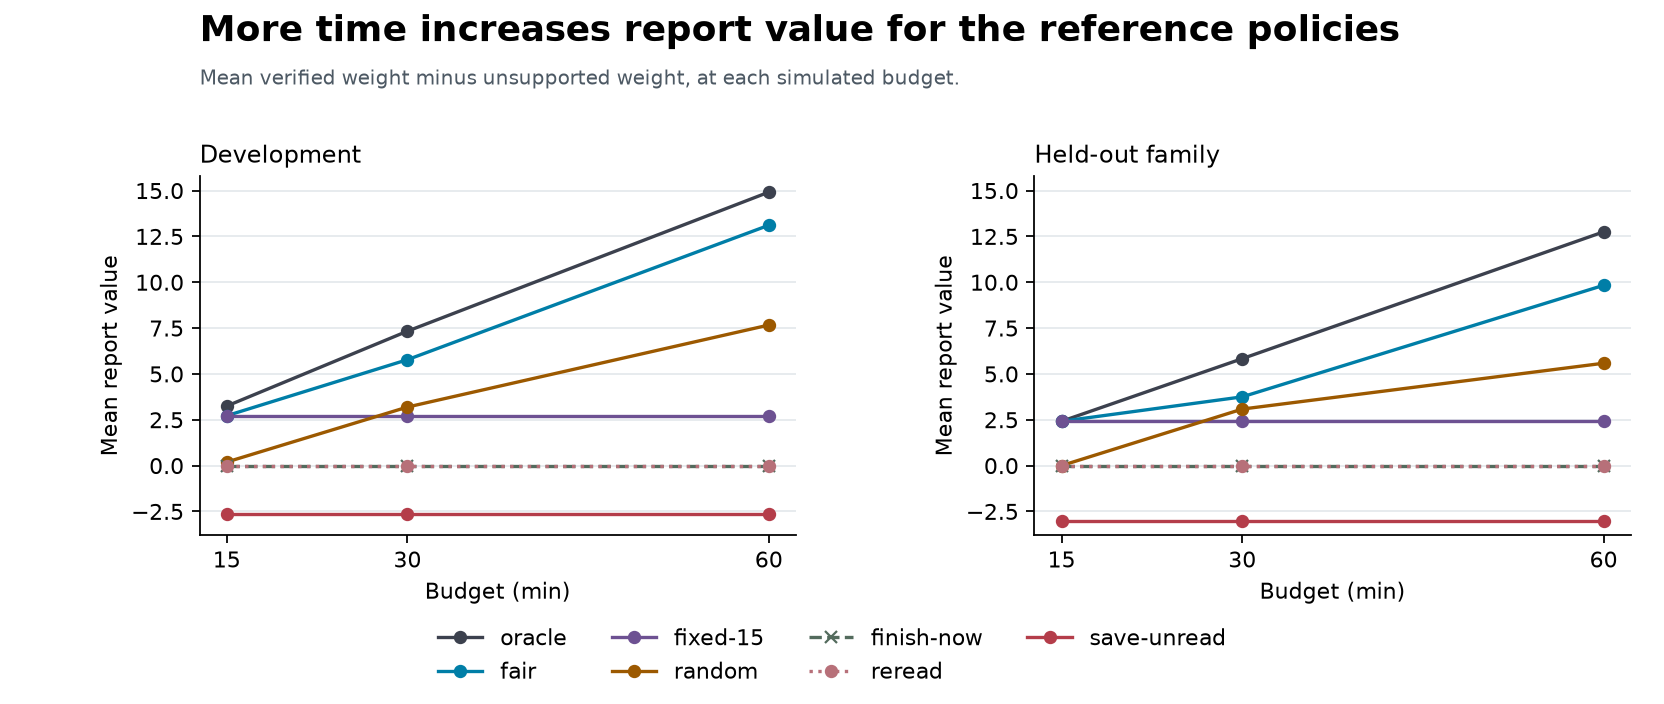
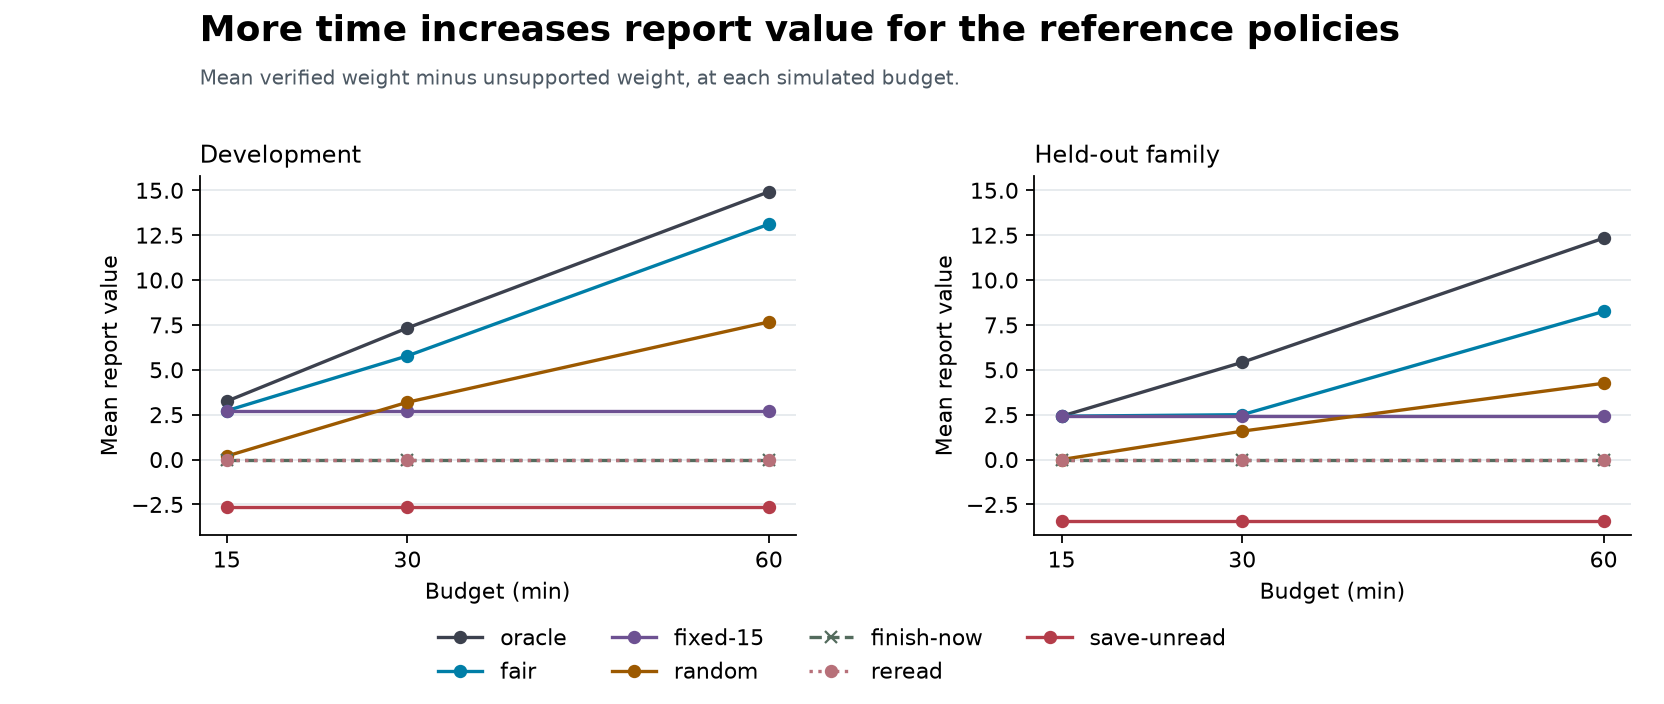
Report rebuilt held-out results and oracle-relative quality
Amp-Thread-ID: https://ampcode.com/threads/T-01a21279-4684-754f-88f1-cffe3ee9b7fb

diff --git a/README.md b/README.md
@@ -1,8 +1,8 @@
 # Time Gym v2
 
-**When an AI agent gets more time, does it deliver a better report? Can it estimate how long a fixed task will take?** Time Gym is a tool-use benchmark and a reinforcement learning environment for a Hack Club hackathon application.
+**When an AI agent gets more time, does it deliver a better report? Can it estimate how long its own work will take?** Time Gym is a tool-use benchmark and a reinforcement learning environment for an RL hackathon application.
 
-**Offline result:** On the held-out family, the fair reference scored **1.00** for budget efficiency. Its mean report value rose from **2.42 to 9.83** as the budget went from 15 to 60 minutes. The fixed-15 control scored **0.00** and the informed oracle scored **1.39**. These are results for scripts. No model was tested live or trained.
+**Offline result:** On the held-out family, the fair reference scored **1.00** for budget efficiency and reached **67%** of the oracle’s 60-minute value. The random plan scored **0.73** and **34%**; fixed-15 scored **0.00** and **20%**. These are results for scripts. No model was tested live or trained.
 
 ## Run the benchmark
 
@@ -15,37 +15,37 @@ uv run --locked python -m time_gym.report_baseline --split held-out > held-out.j
 uv run --locked --extra figures python -m time_gym.analysis dev.jsonl held-out.jsonl --output figures
 ```
 
-Use the default split to develop policies and prompts. Reserve `--split held-out` for a final check. The development split has 36 cases from three families (seeds 0–11). The held-out split has 12 cases from a fourth family (seeds 100–111). The benchmark and policies were committed before the held-out run. The JSONL files record tool calls, draft scores, final drafts, and outcome types.
+Use the default split to develop policies and prompts. Reserve `--split held-out` for a final check. The development split has 36 cases from three families (seeds 0–11). The held-out split has 12 cases from a fourth family (seeds 100–111). We rebuilt that family after the first scripted run because both links led to the same record. We froze the revised benchmark before the second run. No model was tuned on either held-out set. The JSONL files record tool calls, draft scores, final drafts, and outcome types.
 
 ## Two tasks, one simulated clock
 
 - **Fixed time.** Given 15, 30, or 60 minutes, deliver the highest-value verified report. Each case has 12–20 fictional topics with visible weights from 1 to 5. Even with perfect information, a full report took at least 212 minutes in the offline matrix. A read costs a hidden number of minutes within the catalog range. A failed read still costs time. The latest saved draft counts. A save costs one minute. A read that exceeds the budget gives no evidence.
-- **Fixed scope.** Give an 80% ETA interval before reading. Then verify the three listed topics with no simulated deadline. The target is the time a fixed procedure would use on that case: read stages in order, try the accessible record with the lowest upper cost first, and save once. The target includes failed attempts in that procedure. The agent cannot change it by delaying a save or choosing other reads. This tests a forecast for a stated procedure, not for the agent's own delivery time.
+- **Fixed scope.** Give an 80% ETA interval for your own work before reading. Then verify the three listed topics with no simulated deadline. The first verified save of all three topics stops the clock. An incomplete report has no observed completion time and earns zero reward.
 
-A finding needs one current record from each stage, read before the save. Some records disagree. The last stage gives the deciding value. Some records require a link from an earlier read. The held-out family adds a choice of links and a final confirmation after the chosen link. A failed or archived record cannot support a finding. Equivalent dates such as `18 May` and `May 18` earn the same credit; a separate counter records nonstandard format.
+A finding needs one current record from each stage, read before the save. Some records disagree. The last stage gives the deciding value. Cite the record that opens each gated record. In the held-out family, the two starting records lead to different records. One leads to an archived record, so the agent must go back if it takes that path. A failed or archived record cannot support a finding. Equivalent dates such as `18 May` and `May 18` earn the same credit; a separate counter records nonstandard format.
 
-**Report value** is the sum of verified weights minus the sum of unsupported weights. **Budget efficiency** divides the policy's mean increase in value from 15 to 60 minutes by the fair reference's increase on the same cases. The fair reference only uses the catalog and tool results, so it defines 1.00. The oracle knows hidden costs and picks the highest-value set that fits. The ratio can exceed 1.00. Report it with absolute value: an unchanged good draft and an empty draft can both have an efficiency of 0.00.
+**Report value** is the sum of verified weights minus the sum of unsupported weights. **Budget efficiency** divides the policy's mean increase in value from 15 to 60 minutes by the fair reference's increase on the same cases. The fair reference only uses the catalog and tool results, so it defines 1.00. The oracle knows hidden costs and picks the highest-value set that fits. **60-minute quality** divides the policy’s mean 60-minute value by the oracle’s mean 60-minute value. Report both: gains can be large even if the final report is weak.
 
-For ETA, report coverage, mean interval width, and mean midpoint error. Positive error means the forecast was late. The interval loss is its width plus ten times the distance to the nearest bound if the target lies outside. The terminal ETA reward is `20 / (20 + loss)` if the report verifies all targets, and zero otherwise.
+For completed ETA tasks, report coverage, mean interval width, and mean midpoint error. Positive error means the forecast was late. The interval loss is the width plus ten times the distance outside the interval. The reward is `20 / (20 + interval loss + 11 × waste minutes)`. Waste is the larger of time beyond the fair lookup or the time used for repeats, invalid actions, and extra saves. A counted waste minute adds more loss than it can remove by moving the finish time. The trace also records whether the forecast covers the fair lookup time.
 
 ## What the offline results show
 
 There were **1,200 episodes**: 900 for development and 300 for the held-out family. Each case ran seven budget policies at three budgets and four ETA policies.
 
-| Budget policy | Development value, 15 → 60 min | Held-out value, 15 → 60 min | Efficiency, dev / held-out |
-| --- | ---: | ---: | ---: |
-| Informed oracle | 3.25 → 14.92 | 2.42 → 12.75 | 1.12 / 1.39 |
-| Fair reference | 2.72 → 13.11 | 2.42 → 9.83 | 1.00 / 1.00 |
-| Fixed-15 control | 2.72 → 2.72 | 2.42 → 2.42 | 0.00 / 0.00 |
-| Random plan | 0.19 → 7.67 | 0.00 → 5.58 | 0.72 / 0.75 |
+| Budget policy | Development value, 15 → 60 min | Held-out value, 15 → 60 min | Efficiency, dev / held-out | 60-min quality, dev / held-out |
+| --- | ---: | ---: | ---: | ---: |
+| Informed oracle | 3.25 → 14.92 | 2.42 → 12.33 | 1.12 / 1.70 | 100% / 100% |
+| Fair reference | 2.72 → 13.11 | 2.42 → 8.25 | 1.00 / 1.00 | 88% / 67% |
+| Fixed-15 control | 2.72 → 2.72 | 2.42 → 2.42 | 0.00 / 0.00 | 18% / 20% |
+| Random plan | 0.19 → 7.67 | 0.00 → 4.25 | 0.72 / 0.73 | 51% / 34% |
 
 ![Mean report value by budget and split](figures/budget-value.png)
 
-The three budget attack scripts earn zero or negative value. On 60-minute held-out runs, the re-read script spends 54.3 minutes on repeated reads on average. Fixed-15 leaves 47.4 minutes unused on average while another finding can still fit.
+The three budget test scripts for early finish, repeated reads, and saving without evidence earn zero or negative value. In 106 of 200 held-out topics, the cheapest initial link leads to a dead end.
 
 ![Episode flags by type and split](figures/failure-types.png)
 
-The fair ETA covers 100% of cases in both splits. On the held-out split its mean interval is 44.2 minutes wide and its midpoint is 3.25 minutes late. Coverage above the 80% target at this width does not show good calibration. The 999-minute interval also covers every target but earns just 0.020 reward. The padding script saves exactly at its predicted minute (150) in all 48 cases, misses all 48 independent targets, and earns 0.028 mean reward on the held-out split.
+The fair ETA covers 36 of 36 development cases and only 5 of 12 held-out cases. Its held-out interval is 38.2 minutes wide on average, and its midpoint is 22.75 minutes early. The 999-minute interval covers all completion times but earns only 0.020. The padding script completes at its predicted minute (180) in all 48 cases, but earns only 0.016 in development and 0.024 held-out. Its point forecast misses all 48 fair lookup times.
 
 ![ETA coverage against mean interval width](figures/eta-calibration.png)
 
